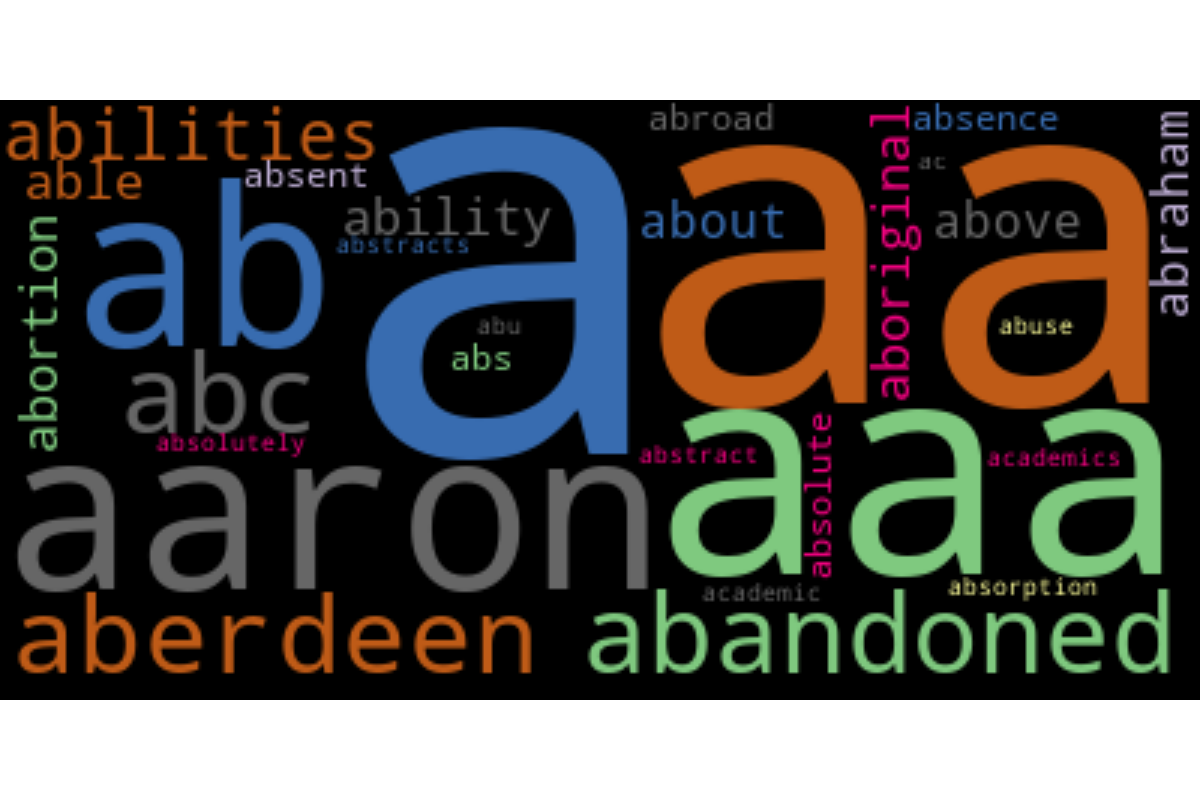
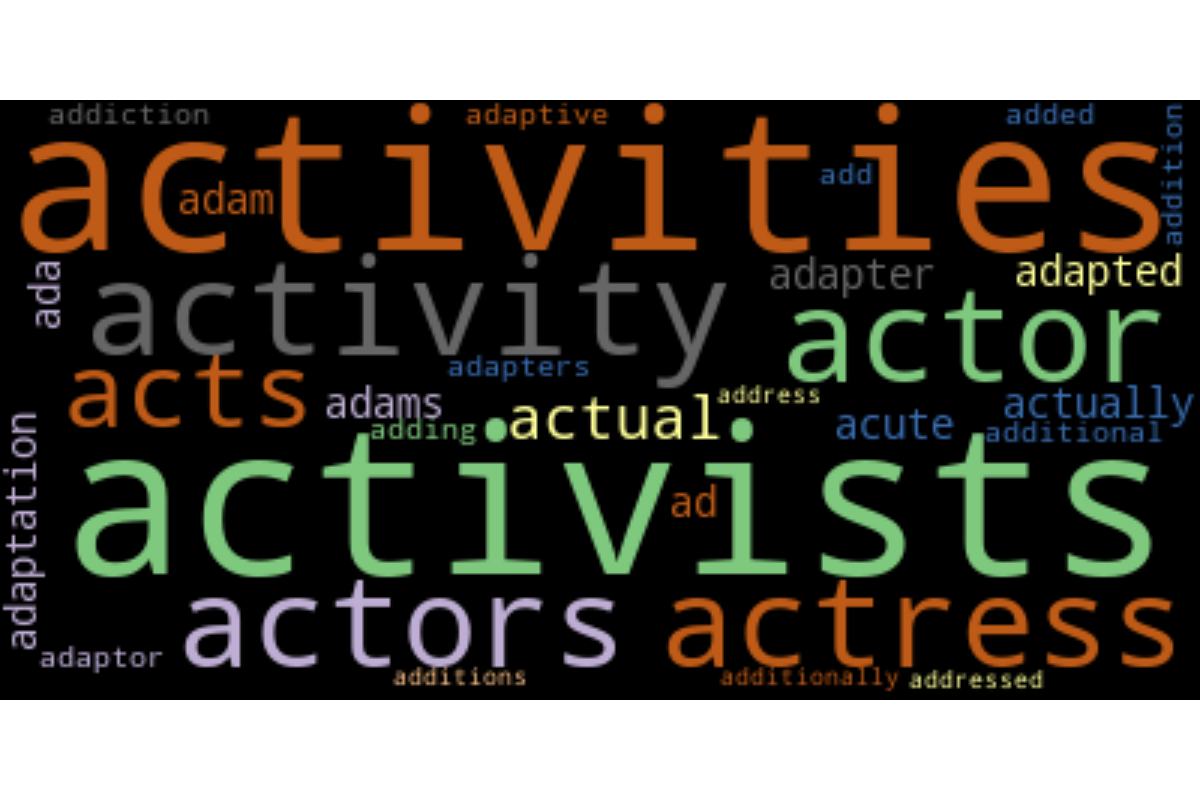
changed the wordcloud sizing

diff --git a/templates/insights.html b/templates/insights.html
@@ -8,8 +8,10 @@
 <h2>Our Project</h2>
     <div class="container">
         <p>
-            This is a demo of generating a random word cloud.
+            This is a demo of generating a random word cloud. Currently, my program pulls the first 100 words from 'https://www.mit.edu/~ecprice/wordlist.10000'
         </p>
+
+        <img src="./static/images/cloud.png" alt="my plot" style="max-width: 50%">
+
     </div>
-<img src="./static/images/cloud.png" alt="my plot">
 {% endblock %}

diff --git a/app.py b/app.py
@@ -52,14 +52,13 @@ def get_topic_frequency(tweets):
     word_freq.most_common(30)
 
     # retrieve word and count from FreqDist tuples
-
     most_common_count = [x[1] for x in word_freq.most_common(30)]
     most_common_word = [x[0] for x in word_freq.most_common(30)]
 
     # create dictionary mapping of word count
     top_30_dictionary = dict(zip(most_common_word, most_common_count))
 
-    # Create Word Cloud of top 30 words
+    # Create Word Cloud of top 30 words..need to figure out best number of topics to generate given a tweet
     wordcloud = WordCloud(colormap='Accent', background_color='black') \
         .generate_from_frequencies(top_30_dictionary)
 
